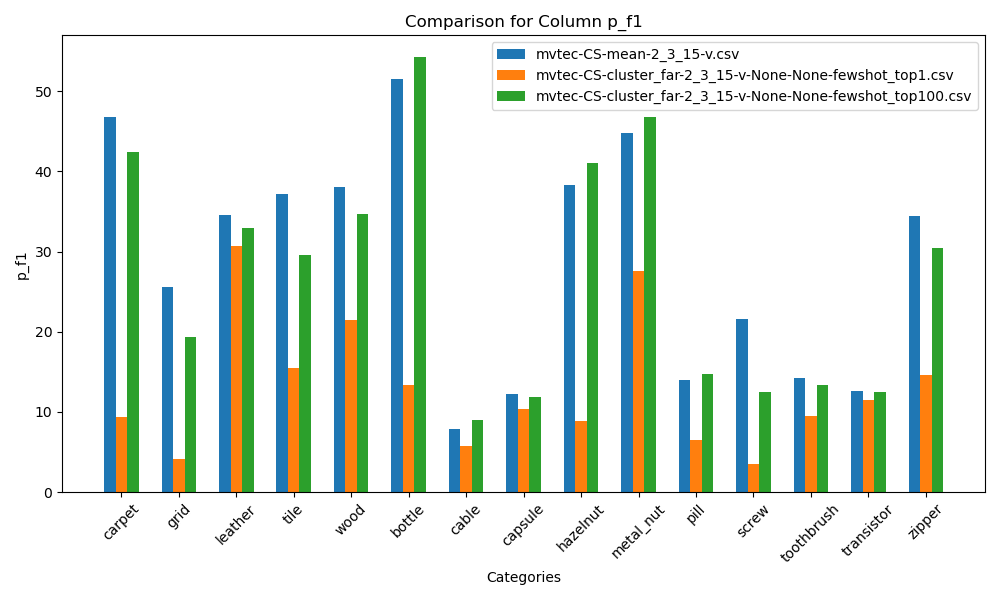
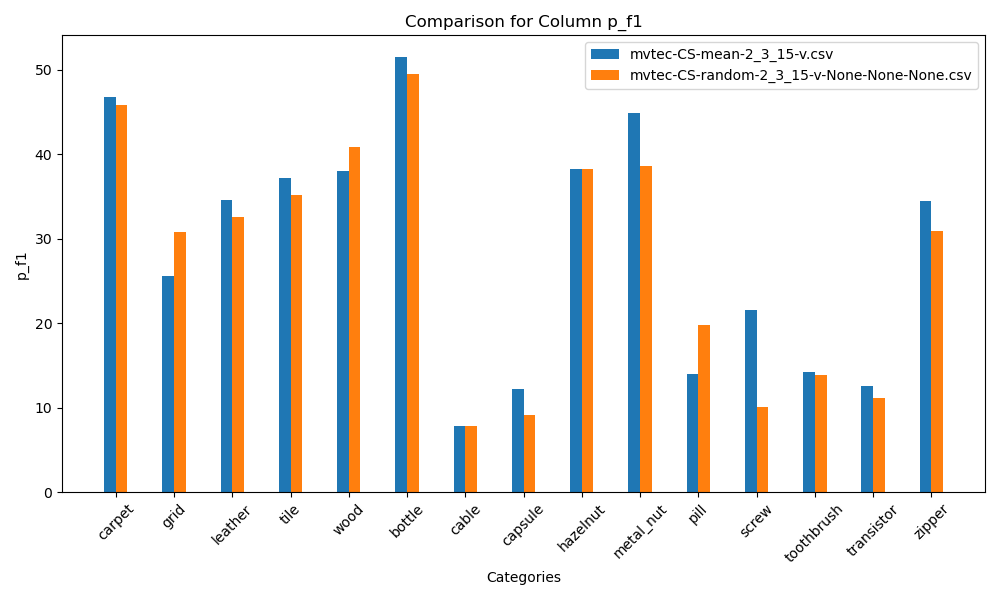
Random words prompt augmentation

diff --git a/CLIP_Surgery_zzx/model_inference.py b/CLIP_Surgery_zzx/model_inference.py
@@ -230,8 +230,10 @@ def encode_text_with_prompt_ensemble_anomaly_random_word(model, category, device
     #     ##    '{} with broken parts',
     #     ##    '{} with bumpy surfaces'
     # ]
-    normal_states = ['a', 'an', 'a normal', 'a good', 'a flawless', 'a perfect', 'a unblemished']
-    anomaly_states = ['a damaged', 'a borken', 'a defective', 'an anomalous', 'an imperfect', 'a blemished', 'an abnormal']
+    # normal_states = ['a', 'an', 'a normal', 'a good', 'a flawless', 'a perfect', 'a unblemished']
+    # anomaly_states = ['a damaged', 'a borken', 'a defective', 'an anomalous', 'an imperfect', 'a blemished', 'an abnormal']
+    normal_states = ['a']
+    anomaly_states = ['a damaged']
     
     normal_phrases = []
     abnormal_phrases = []
